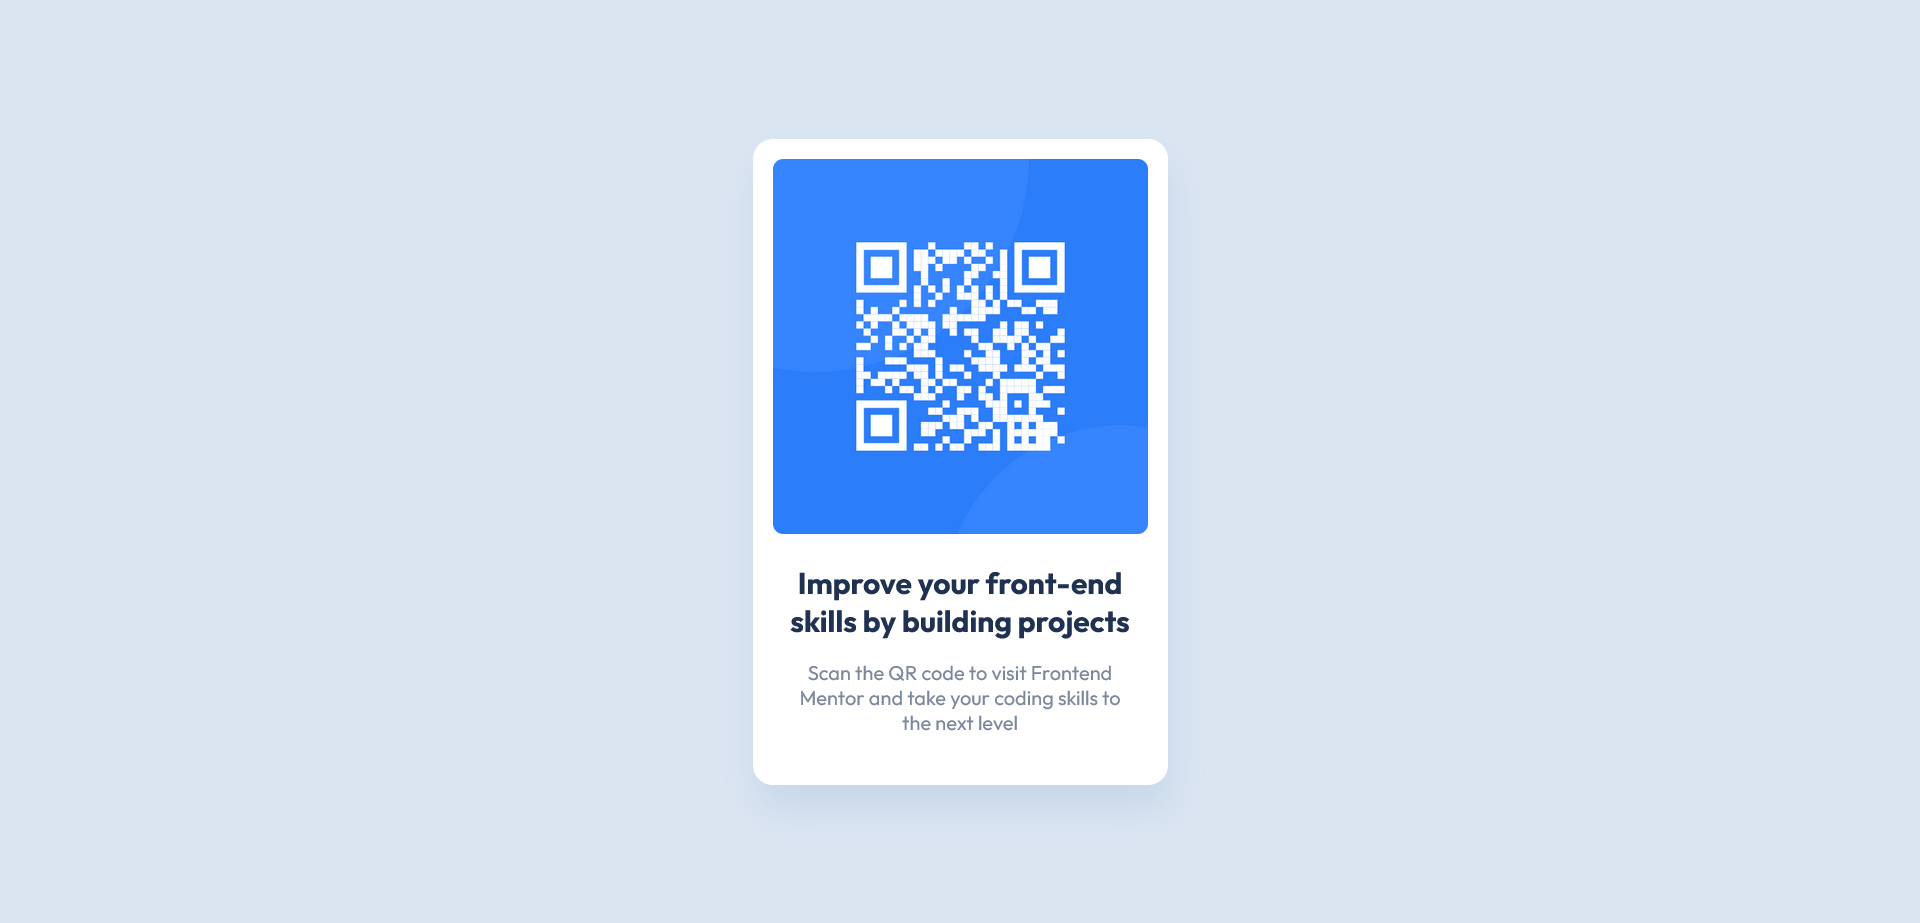
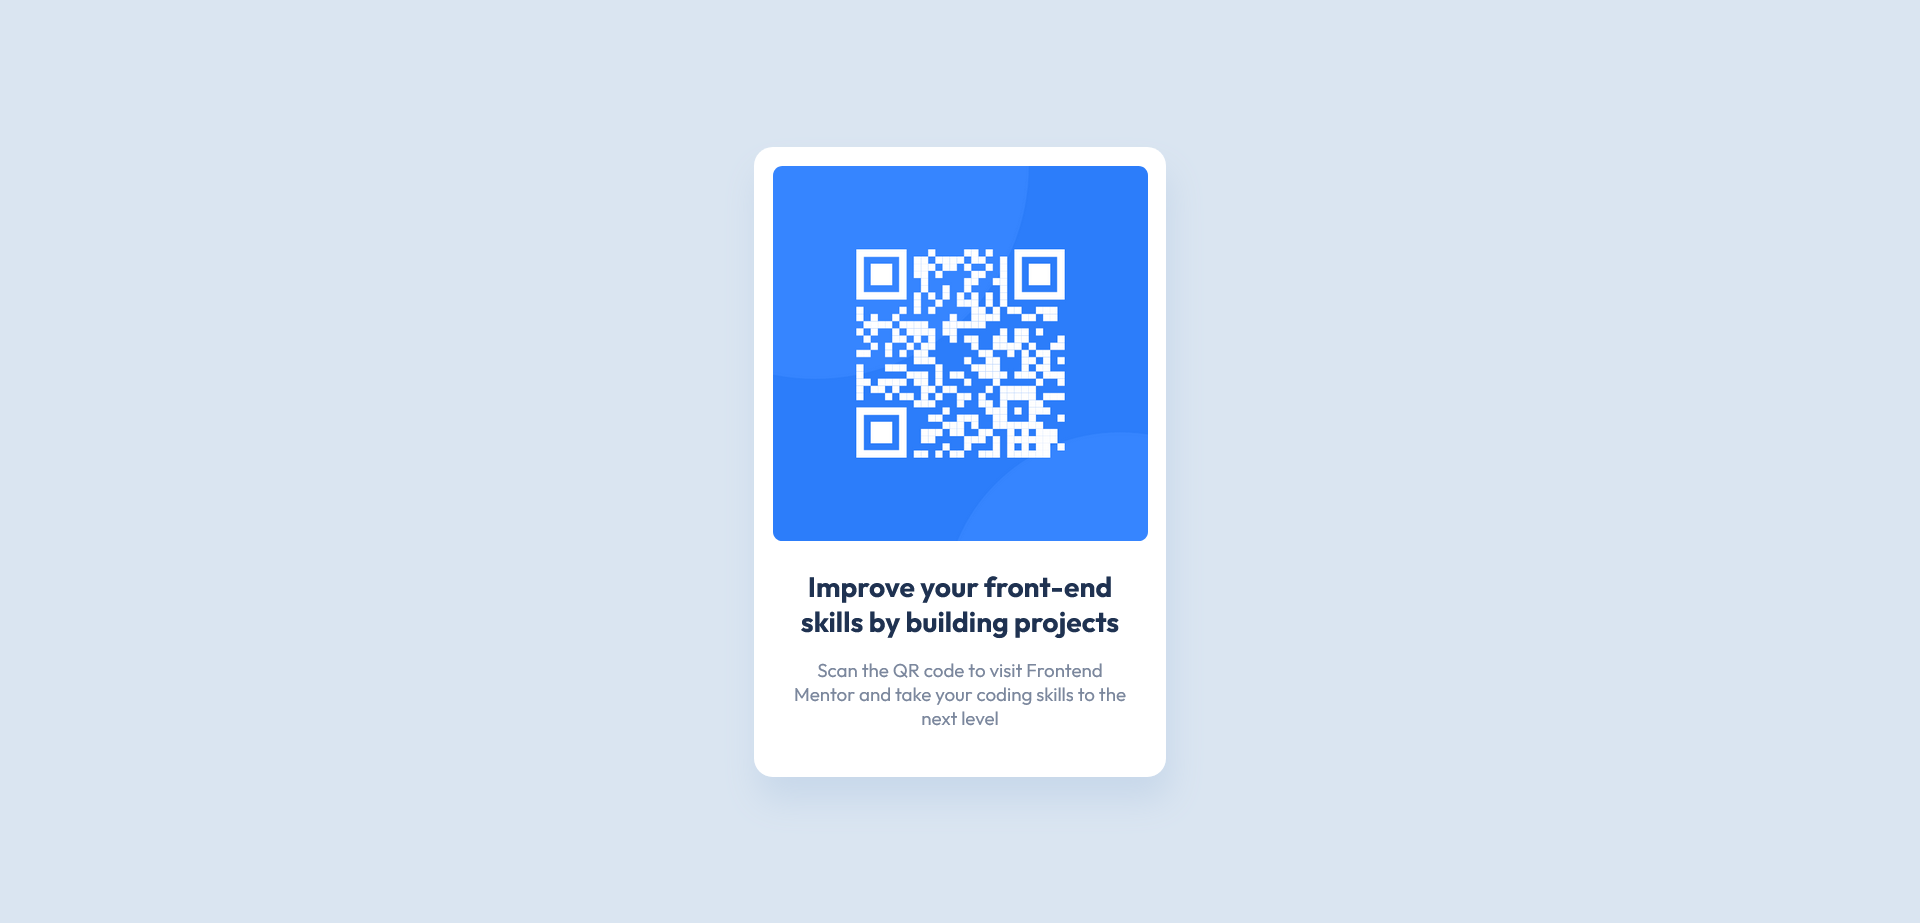
Tweak CSS

diff --git a/index.html b/index.html
@@ -22,15 +22,6 @@
     <title>Frontend Mentor | QR code component</title>
   </head>
   <body>
-    <!-- Improve your front-end skills by building projects
-
-  Scan the QR code to visit Frontend Mentor and take your coding skills to the next level
-  
-  <div class="attribution">
-    Challenge by <a href="https://www.frontendmentor.io?ref=challenge" target="_blank">Frontend Mentor</a>. 
-    Coded by <a href="#">Your Name Here</a>.
-  </div> -->
-
     <div class="card-wrapper">
       <img src="./images/image-qr-code.png" />
 

diff --git a/styles/styles.css b/styles/styles.css
@@ -7,13 +7,14 @@ body {
   text-align: center;
   min-height: 100vh;
   margin: 0;
+  font-size: 15px;
 }
 .card-wrapper {
   display: flex;
   flex-direction: column;
   align-items: center;
   background-color: hsl(0, 0%, 100%);
-  max-width: 300px;
+  max-width: 20em;
   padding: 1em;
   border-radius: 1em;
   gap: 1.5em;
